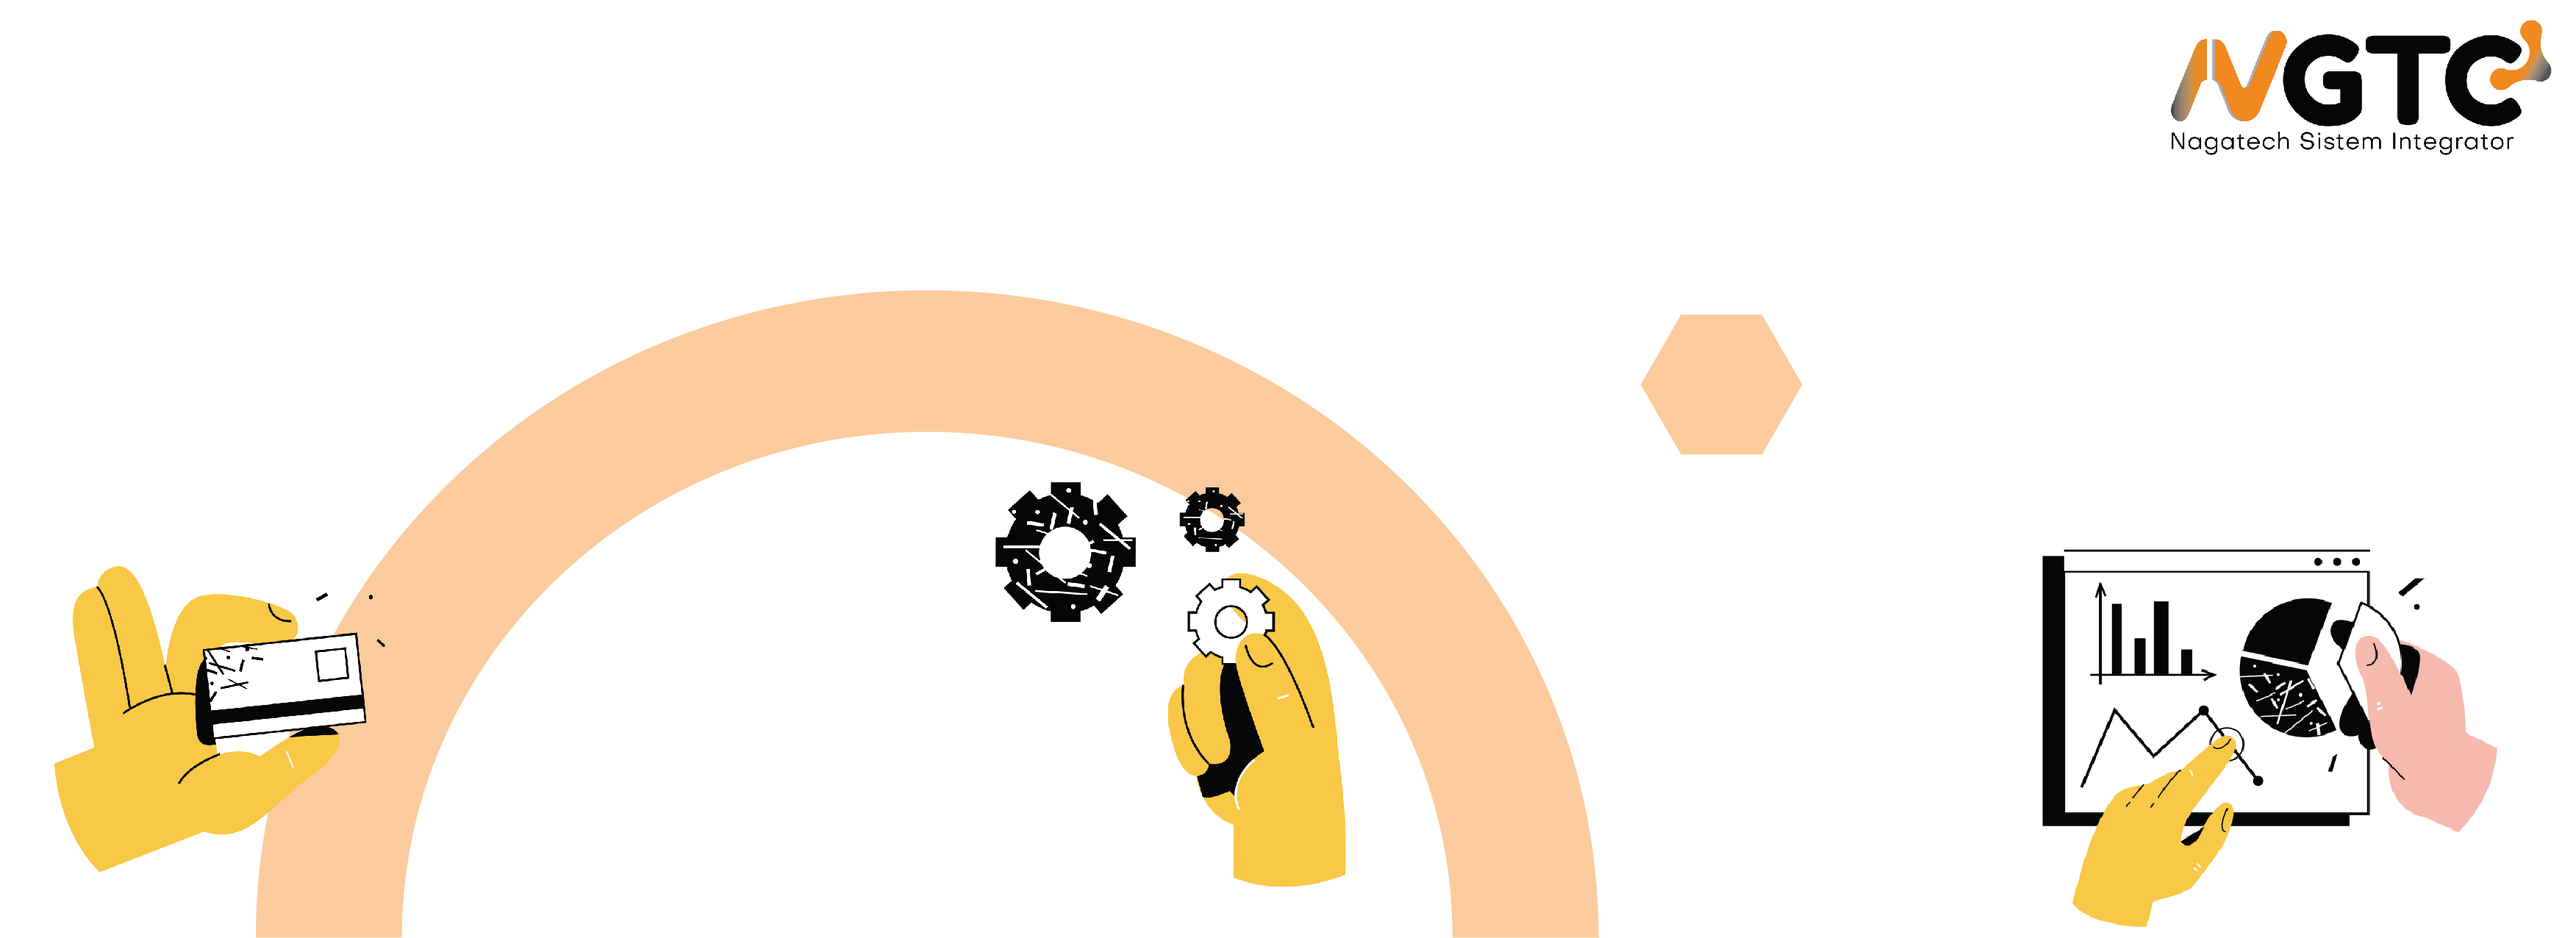
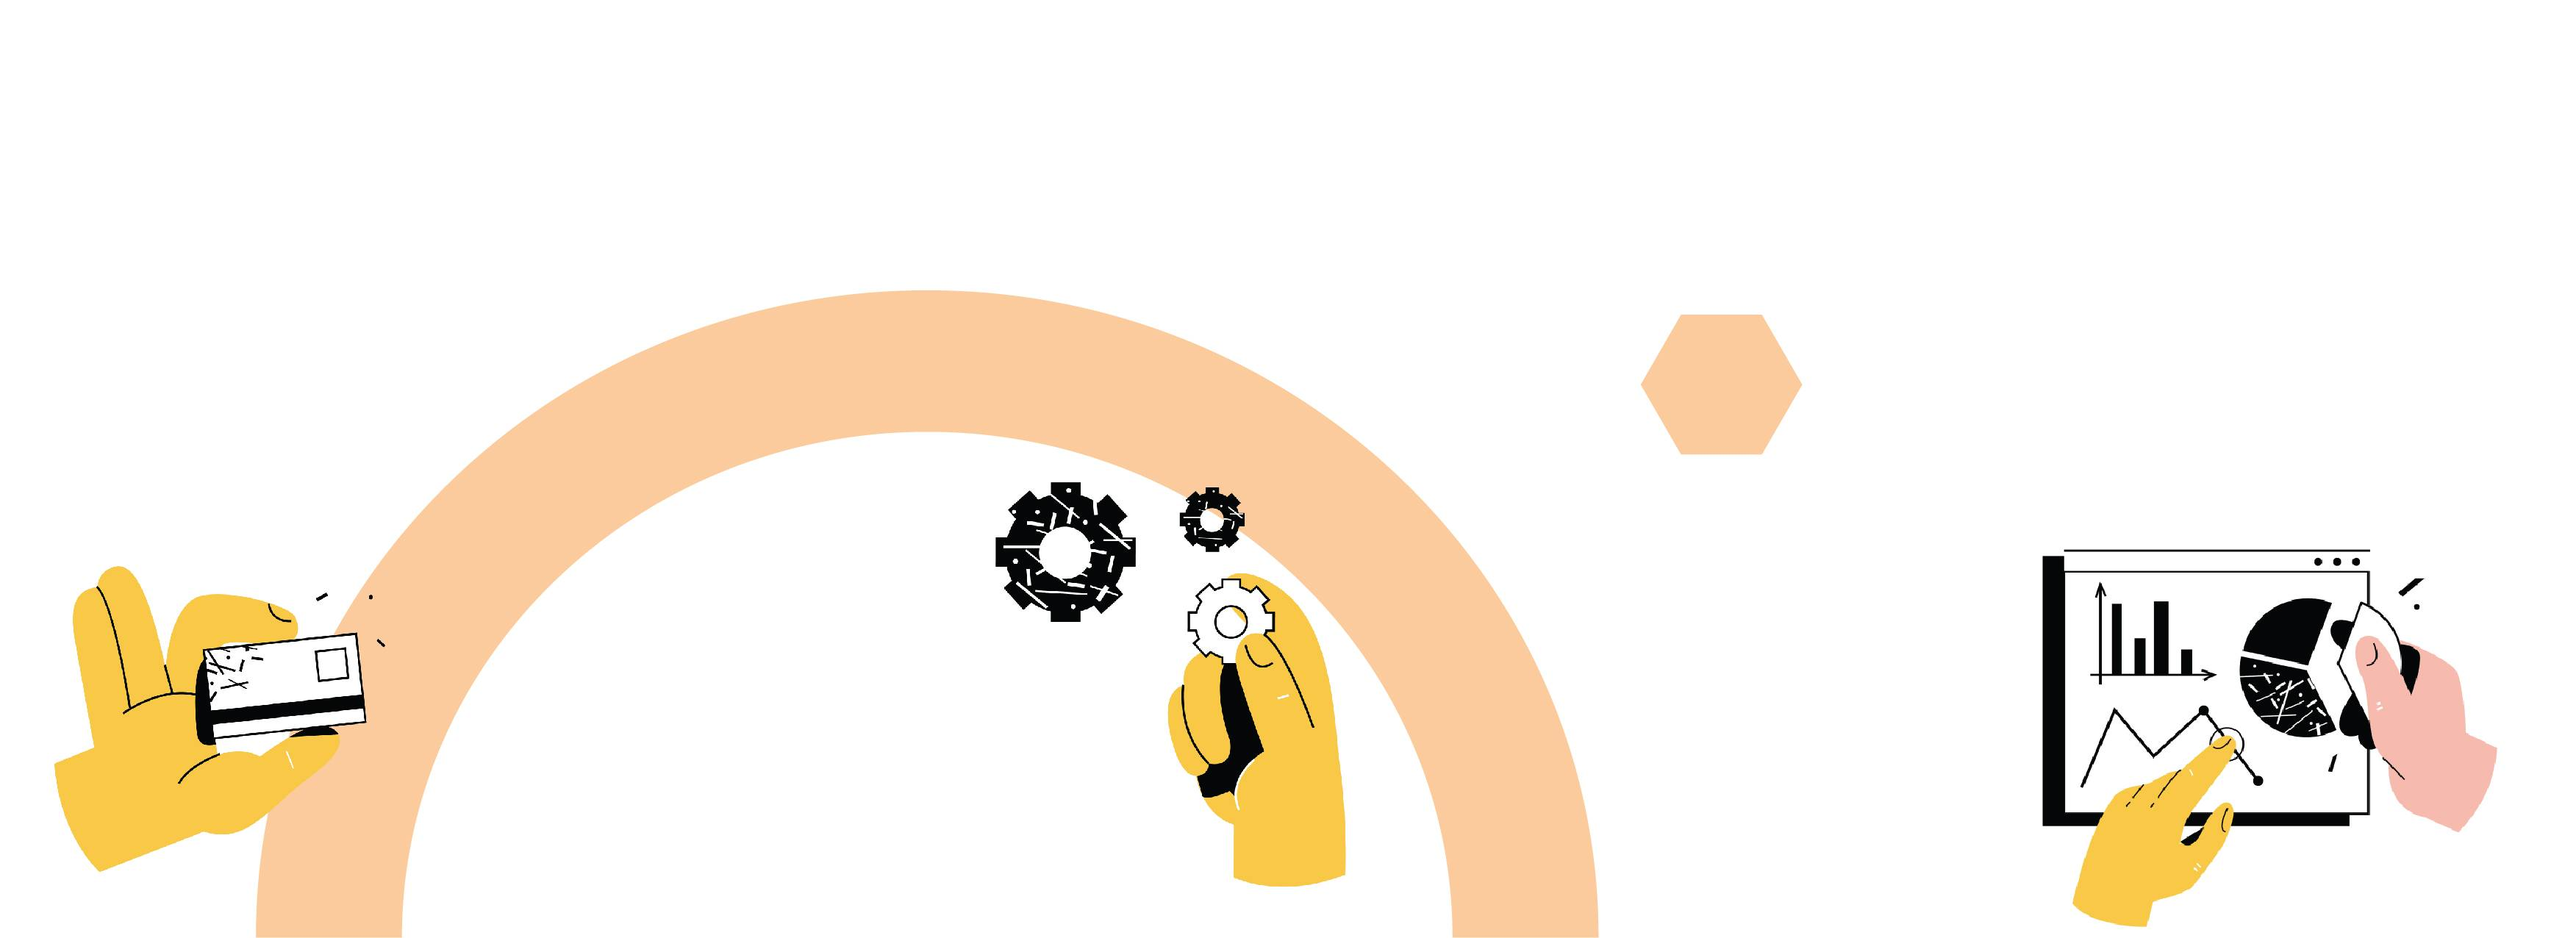
SOME FIX AND CHANGES FOR LEARN

Changed region(s): [[0.8399, 0.0306, 0.9954, 0.1528], [0.4666, 0.6724, 0.4977, 0.703], [0.0311, 0.7335, 0.0622, 0.7641]]

diff --git a/src/_metronic/layout/components/header/HeaderWrapper.tsx b/src/_metronic/layout/components/header/HeaderWrapper.tsx
@@ -47,20 +47,19 @@ export function HeaderWrapper() {
           </div>
         </div>
 
+        
         <div className='header-logo me-5 me-md-10 flex-grow-1 flex-lg-grow-0'>
           <Link to='/'>
-            {/* dark */}
-            <img
+            {/* <img
               alt='Logo'
               src={toAbsoluteUrl('/media/logos/nsi-logo-white.png')}
               className='logo-default h-30px'
             />
-            {/* light */}
             <img
               alt='Logo'
               src={toAbsoluteUrl('/media/logos/nsi-logo.png')}
               className='logo-sticky h-70px'
-            />
+            /> */}
           </Link>
         </div>
 

diff --git a/src/app/pages/dashboard/TableDetailProduct.tsx b/src/app/pages/dashboard/TableDetailProduct.tsx
@@ -94,14 +94,14 @@ const TableDetailProduct: React.FC = () => {
       align: 'center',
       render: (_, record) => (
         <Space size='middle'>
-          <button
+          {/* <button
             className='btn btn-light-warning btn-sm me-1'
             onClick={(e) => handleEdit(e, record.key)}
           >
             <span className='indicator-label'>
               Edit <KTSVG path='/media/icons/duotune/general/gen027.svg' className='svg-icon-3' />
             </span>
-          </button>
+          </button> */}
           <button
             className='btn btn-light-danger btn-sm me-1'
             onClick={(e) => handleDelete(e, record.product)}

diff --git a/src/app/pages/report/report-customer/ReportCustomerPage.tsx b/src/app/pages/report/report-customer/ReportCustomerPage.tsx
@@ -46,7 +46,7 @@ const ReportCustomerPage: FC = () => {
                 <div className='card-header border-0 pt-5'>
                   <h3 className='card-title align-items-start flex-column'>
                     <span className='card-label fw-bolder fs-3 mb-1'>Report Customer</span>
-                    <span className='text-muted mt-1 fw-bold fs-7'>List Data</span>
+                    <span className='text-muted mt-1 fw-bold fs-7'>List Data Report Customer</span>
                   </h3>
                   <div className='card-toolbar'></div>
                 </div>

diff --git a/src/app/pages/dashboard-customer/pdf/KwitansiPDF.jsx b/src/app/pages/dashboard-customer/pdf/KwitansiPDF.jsx
@@ -37,7 +37,7 @@ const KwitansiPDF = (data, no) => {
   doc.addFont(toAbsoluteUrl('/media/fonts/lora/Lora-Bold.ttf'), 'Lora', 'bold')
   doc.setFont('Lora', 'bold')
   doc.text('#' + (data.grand_total - (data.diskon_tambahan || 0)).toLocaleString() + '#', 83, 104)
-  doc.text('Layanan berlangganan Nagatech Sistem Integrator, ', 80, 114)
+  doc.text('Layanan berlangganan, ', 80, 114)
   const desk = `Total nilai Rp. ${(
     data.grand_total - (data.diskon_tambahan || 0)
   ).toLocaleString()} (${angkaTerbilang(data.grand_total - (data.diskon_tambahan || 0))})`

diff --git a/src/app/pages/dashboard/pdf/KwitansiPDF.jsx b/src/app/pages/dashboard/pdf/KwitansiPDF.jsx
@@ -37,7 +37,7 @@ const KwitansiPDF = (data, no) => {
   doc.addFont(toAbsoluteUrl('/media/fonts/lora/Lora-Bold.ttf'), 'Lora', 'bold')
   doc.setFont('Lora', 'bold')
   doc.text('#' + (data.grand_total - (data.diskon_tambahan || 0)).toLocaleString() + '#', 83, 104)
-  doc.text('Layanan berlangganan Nagatech Sistem Integrator, ', 80, 114)
+  doc.text('Layanan berlangganan, ', 80, 114)
   const desk = `Total nilai Rp. ${(
     data.grand_total - (data.diskon_tambahan || 0)
   ).toLocaleString()} (${angkaTerbilang(data.grand_total - (data.diskon_tambahan || 0))})`

diff --git a/src/app/pages/service-adjustment/ServiceAdjustmentPage.tsx b/src/app/pages/service-adjustment/ServiceAdjustmentPage.tsx
@@ -26,7 +26,7 @@ const ServiceAdjustmentPage: FC = () => {
                   <h3 className='card-title align-items-start flex-column'>
                     <span className='card-label fw-bolder fs-3 mb-1'>Customer Data</span>
                     <span className='text-muted mt-1 fw-bold fs-7'>
-                      List Data Of Nagatech Customer VPS
+                      List Data Of Customer
                     </span>
                   </h3>
                   <div className='card-toolbar'></div>

diff --git a/src/app/pages/dashboard/DashboardWrapper.tsx b/src/app/pages/dashboard/DashboardWrapper.tsx
@@ -74,7 +74,7 @@ const DashboardWrapper: FC = () => {
                   <h3 className='card-title align-items-start flex-column'>
                     <span className='card-label fw-bolder fs-3 mb-1'>Transactions Data</span>
                     <span className='text-muted mt-1 fw-bold fs-7'>
-                      List Data Of Nagatech Customer VPS
+                      List Data Of Customer
                     </span>
                   </h3>
                   <div className='card-toolbar'>

diff --git a/src/app/pages/master/product/ProductPage.tsx b/src/app/pages/master/product/ProductPage.tsx
@@ -51,7 +51,7 @@ const ProductPage: FC = () => {
                   <h3 className='card-title align-items-start flex-column'>
                     <span className='card-label fw-bolder fs-3 mb-1'>Master Product Data</span>
                     <span className='text-muted mt-1 fw-bold fs-7'>
-                      List Data Of Nagatech Product
+                      List Data Of Product
                     </span>
                   </h3>
                   <div className='card-toolbar'>

diff --git a/src/app/pages/master/user/UserPage.tsx b/src/app/pages/master/user/UserPage.tsx
@@ -51,7 +51,7 @@ const UserPage: FC = () => {
                   <h3 className='card-title align-items-start flex-column'>
                     <span className='card-label fw-bolder fs-3 mb-1'>Master User Data</span>
                     <span className='text-muted mt-1 fw-bold fs-7'>
-                      List Data Of Nagatech User Admin
+                      List Data Of User
                     </span>
                   </h3>
                   <div className='card-toolbar'>

diff --git a/src/app/pages/auth/component/LoginForm.tsx b/src/app/pages/auth/component/LoginForm.tsx
@@ -55,7 +55,7 @@ export function LoginForm() {
       {/* begin::Heading */}
       <div className='text-center mb-10'>
         <h1 className='text-dark mb-3'>Welcome</h1>
-        <div className='text-gray-400 fw-bold fs-4'> Nagatech Sistem Integrator App</div>
+        <div className='text-gray-400 fw-bold fs-4'> </div>
         {/* <img alt='Logo' src={toAbsoluteUrl('/media/logos/nsi-logo.png')} width={'45%'} /> */}
       </div>
       {/* begin::Heading */}

diff --git a/src/app/pages/master/store/StorePage.tsx b/src/app/pages/master/store/StorePage.tsx
@@ -56,7 +56,7 @@ const StorePage: FC = () => {
                       Master Store / Customer Data
                     </span>
                     <span className='text-muted mt-1 fw-bold fs-7'>
-                      List Data Of Nagatech Store Customer
+                      List Data Of Customer
                     </span>
                   </h3>
                   <div className='card-toolbar'>

diff --git a/src/_metronic/layout/components/Footer.tsx b/src/_metronic/layout/components/Footer.tsx
@@ -14,7 +14,7 @@ const Footer: FC = () => {
         <div className='text-dark order-2 order-md-1'>
           <span className='text-muted fw-bold me-2'>{new Date().getFullYear()} &copy;</span>
           <a href='#' className='text-gray-800 text-hover-primary'>
-            PT. Nagatech Sistem Integrator
+            
           </a>
         </div>
         {/* end::Copyright */}
